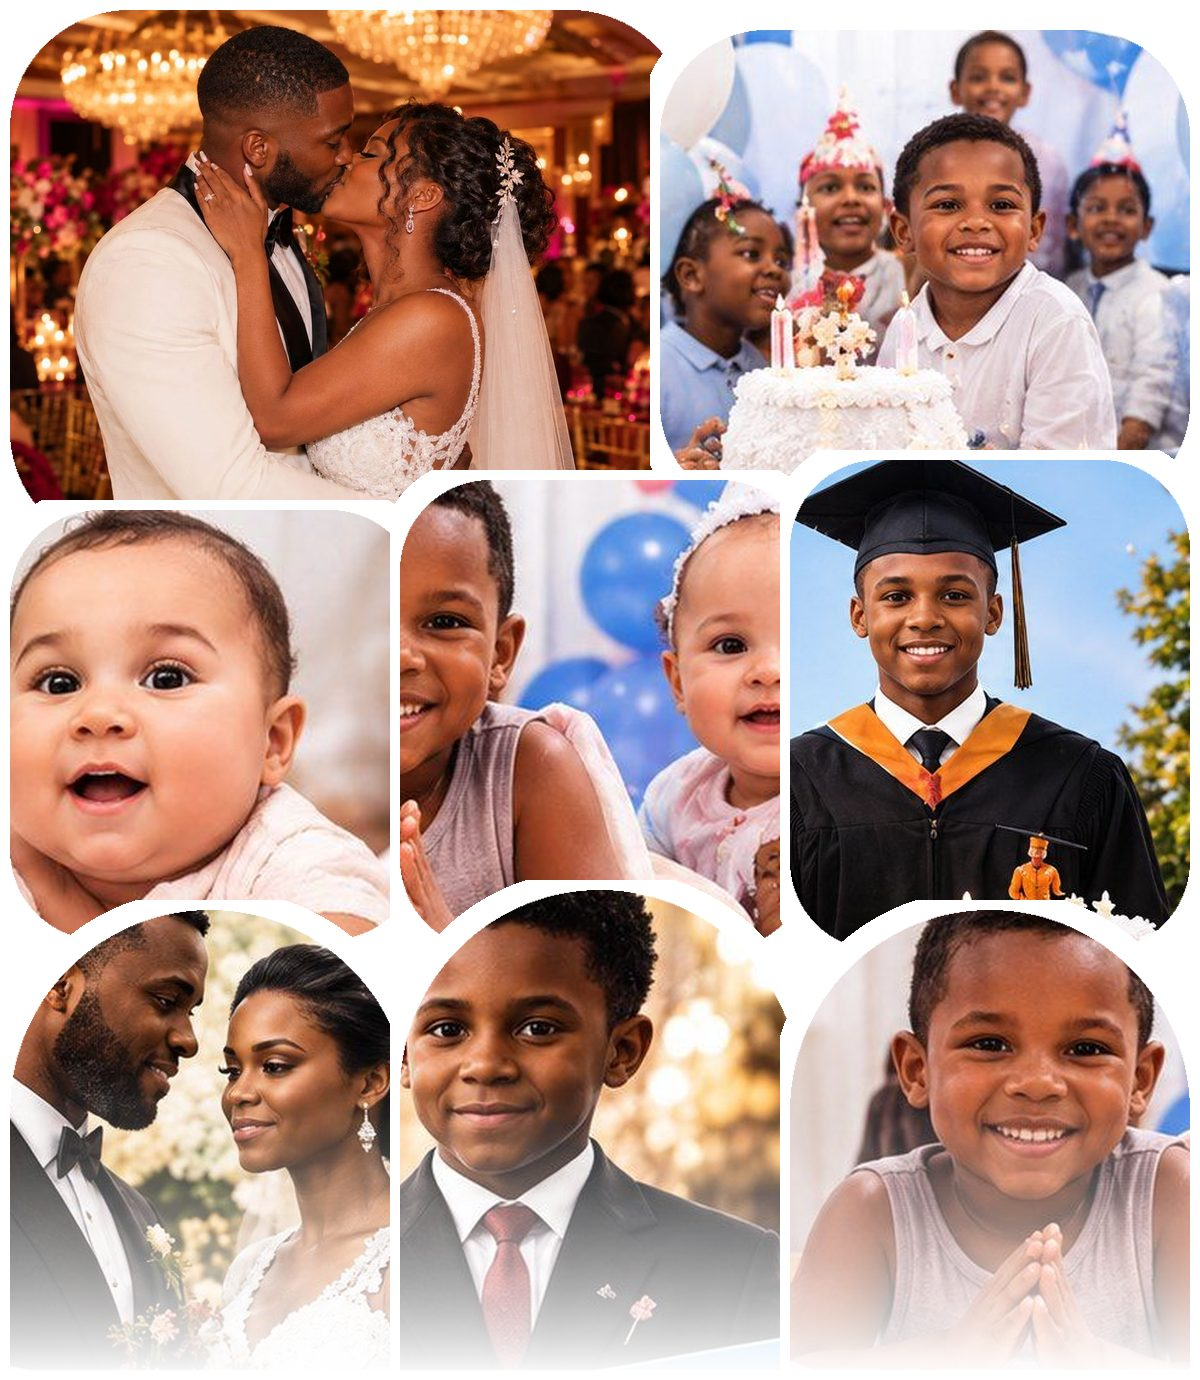
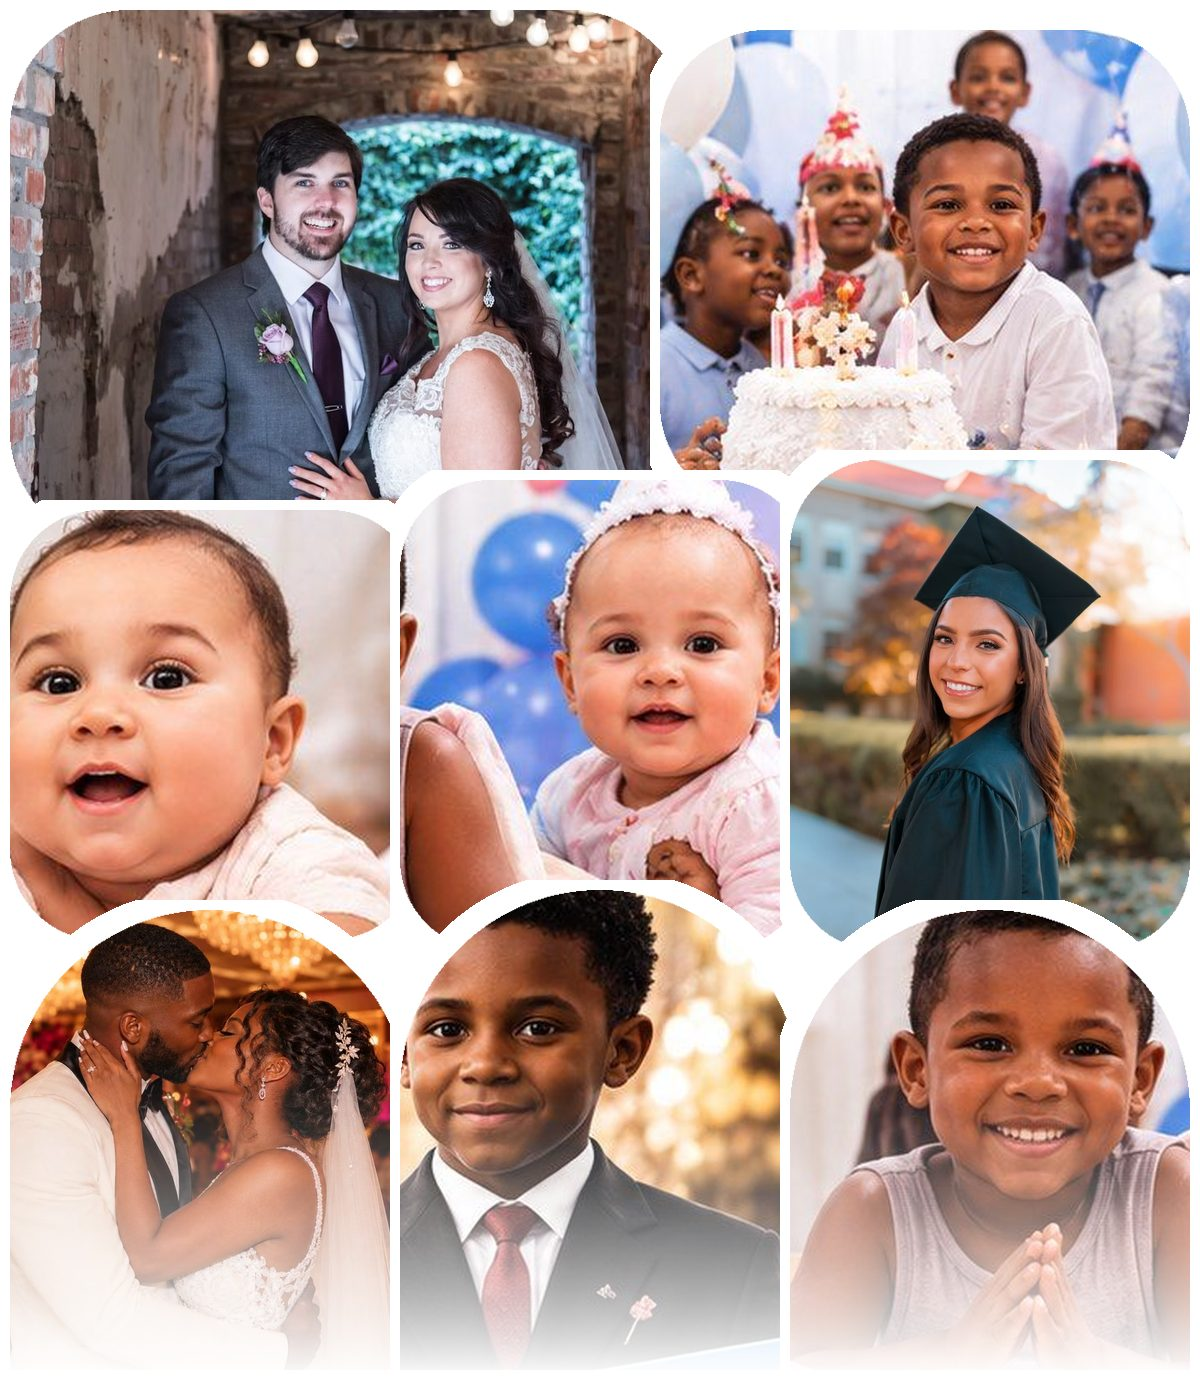
Page d'accueil : collage plus varié avec deux nouvelles photos HD libres (couple, diplômée), aussi utilisées pour les événements démo
Claude-Session: https://claude.ai/code/session_01DZD1fyPbKcUBTkn1qnKi7H

diff --git a/lib/demo.js b/lib/demo.js
@@ -18,14 +18,14 @@ const pick = (list, i) => list[i % list.length];
 const img = (...names) => names.map((n) => `/img/demo/${n}.jpg`);
 // Chaque photo existe en plusieurs variantes (miroir, recadrage, tons) : « nom », « nom-2 », « nom-3 »…
 const variants = (name, n) => [name, ...Array.from({ length: n - 1 }, (_, i) => `${name}-${i + 2}`)];
-const WEDDING = img(...variants("live-mariage", 5), ...variants("mariage", 4));
+const WEDDING = img(...variants("live-mariage", 5), "mariage-b", ...variants("mariage", 4));
 const BABY = img(...variants("bebe", 4));
 const KIDS = img(...variants("enfants", 4));
 const PARTY = img(...variants("anniversaire", 4), ...variants("enfants", 4));
 const COVERS = {
   mariage: WEDDING, fiancailles: [...WEDDING].reverse(),
   bapteme: BABY, "baby-shower": [...BABY, ...KIDS], communion: img(...variants("costume", 4)),
-  anniversaire: PARTY, diplome: img(...variants("diplome", 4)), autre: [...WEDDING, ...PARTY],
+  anniversaire: PARTY, diplome: img("diplome-f", ...variants("diplome", 4)), autre: [...WEDDING, ...PARTY],
 };
 export const coverFor = (type, i) => pick(COVERS[type] || PARTY, i);
 const TYPES = {
@@ -96,19 +96,19 @@ export async function upgradeDemoCovers() {
   })));
 }
 
-// Couvertures variées (v2) : redistribue une fois les photos des événements démo déjà créés.
+// Couvertures variées (v3) : redistribue une fois les photos des événements démo déjà créés.
 let varied = false;
 export async function varyDemoCovers() {
   if (varied) return false;
   varied = true;
-  if ((await getSetting("demoCovers")) >= 2) return false;
+  if ((await getSetting("demoCovers")) >= 3) return false;
   const list = await demoEvents();
   const seen = {};
   await Promise.all(list.map((e) => {
     const i = seen[e.type] = (seen[e.type] ?? -1) + 1;
     return e.cover?.startsWith("/img/demo/") ? saveEvent({ ...e, cover: coverFor(e.type, i) }) : null;
   }));
-  await setSetting("demoCovers", 2);
+  await setSetting("demoCovers", 3);
   return true;
 }
 

diff --git a/public/index.html b/public/index.html
@@ -26,7 +26,7 @@
 </head>
 <body>
   <main class="container" style="max-width:480px">
-    <img class="hero-collage" src="/img/maquette/collage.jpg?v=6" alt="Mariage, baptême, anniversaire, remise de diplôme : tous vos moments">
+    <img class="hero-collage" src="/img/maquette/collage.jpg?v=7" alt="Mariage, baptême, anniversaire, remise de diplôme : tous vos moments">
 
     <p style="text-align:center;margin:0">
       <span class="logo logo-lg"><img src="/img/logo.png" alt=""><span>MaFel<b>i</b>za</span></span>
